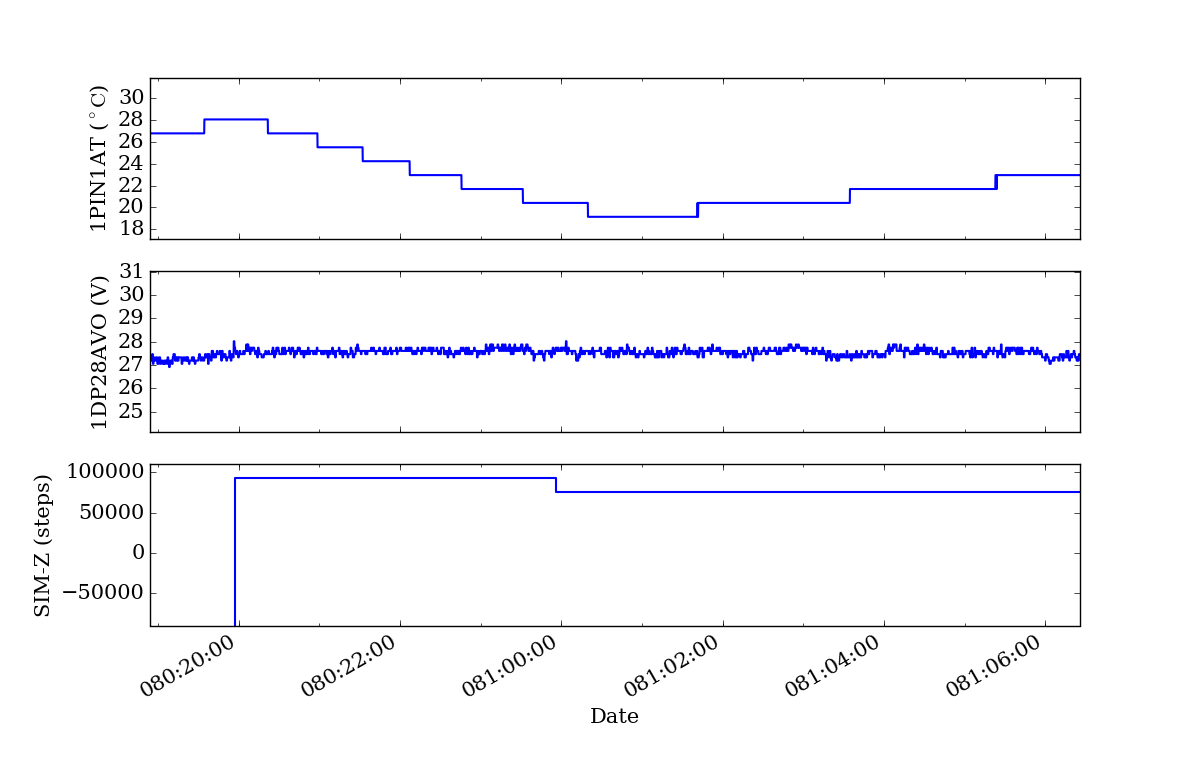
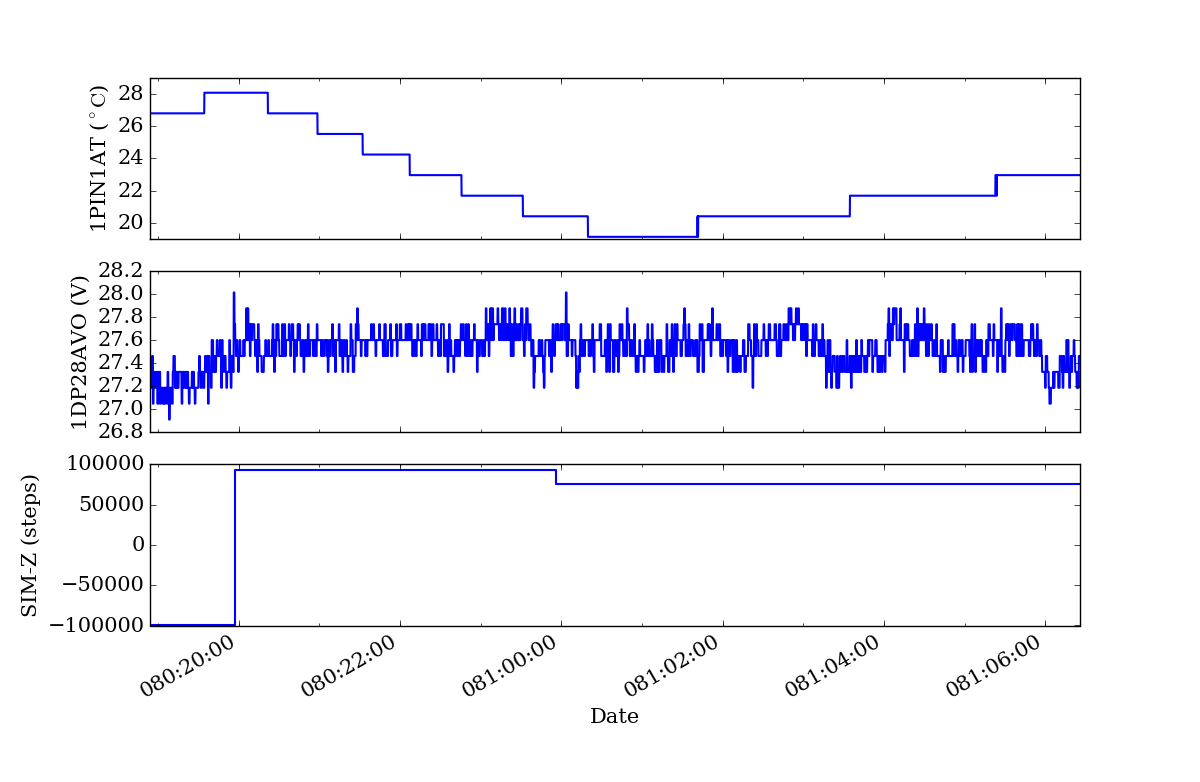
Don't expand these ranges anymore

diff --git a/acis_pytools/plots.py b/acis_pytools/plots.py
@@ -97,11 +97,6 @@ class DatePlot(object):
                 self.set_ylabel(fd2.upper()+" (%s)" % msid_units[fd])
             else:
                 self.set_ylabel(fd2.upper())
-        ymin, ymax = self.ax.get_ylim()
-        self.set_ylim(ymin*0.9, ymax*1.1)
-        if hasattr(self, 'ax2'):
-            ymin2, ymax2 = self.ax2.get_ylim()
-            self.set_ylim2(ymin2*0.9, ymax2*1.1)
 
     def set_xlim(self, xmin, xmax):
         if not isinstance(xmin, datetime):
